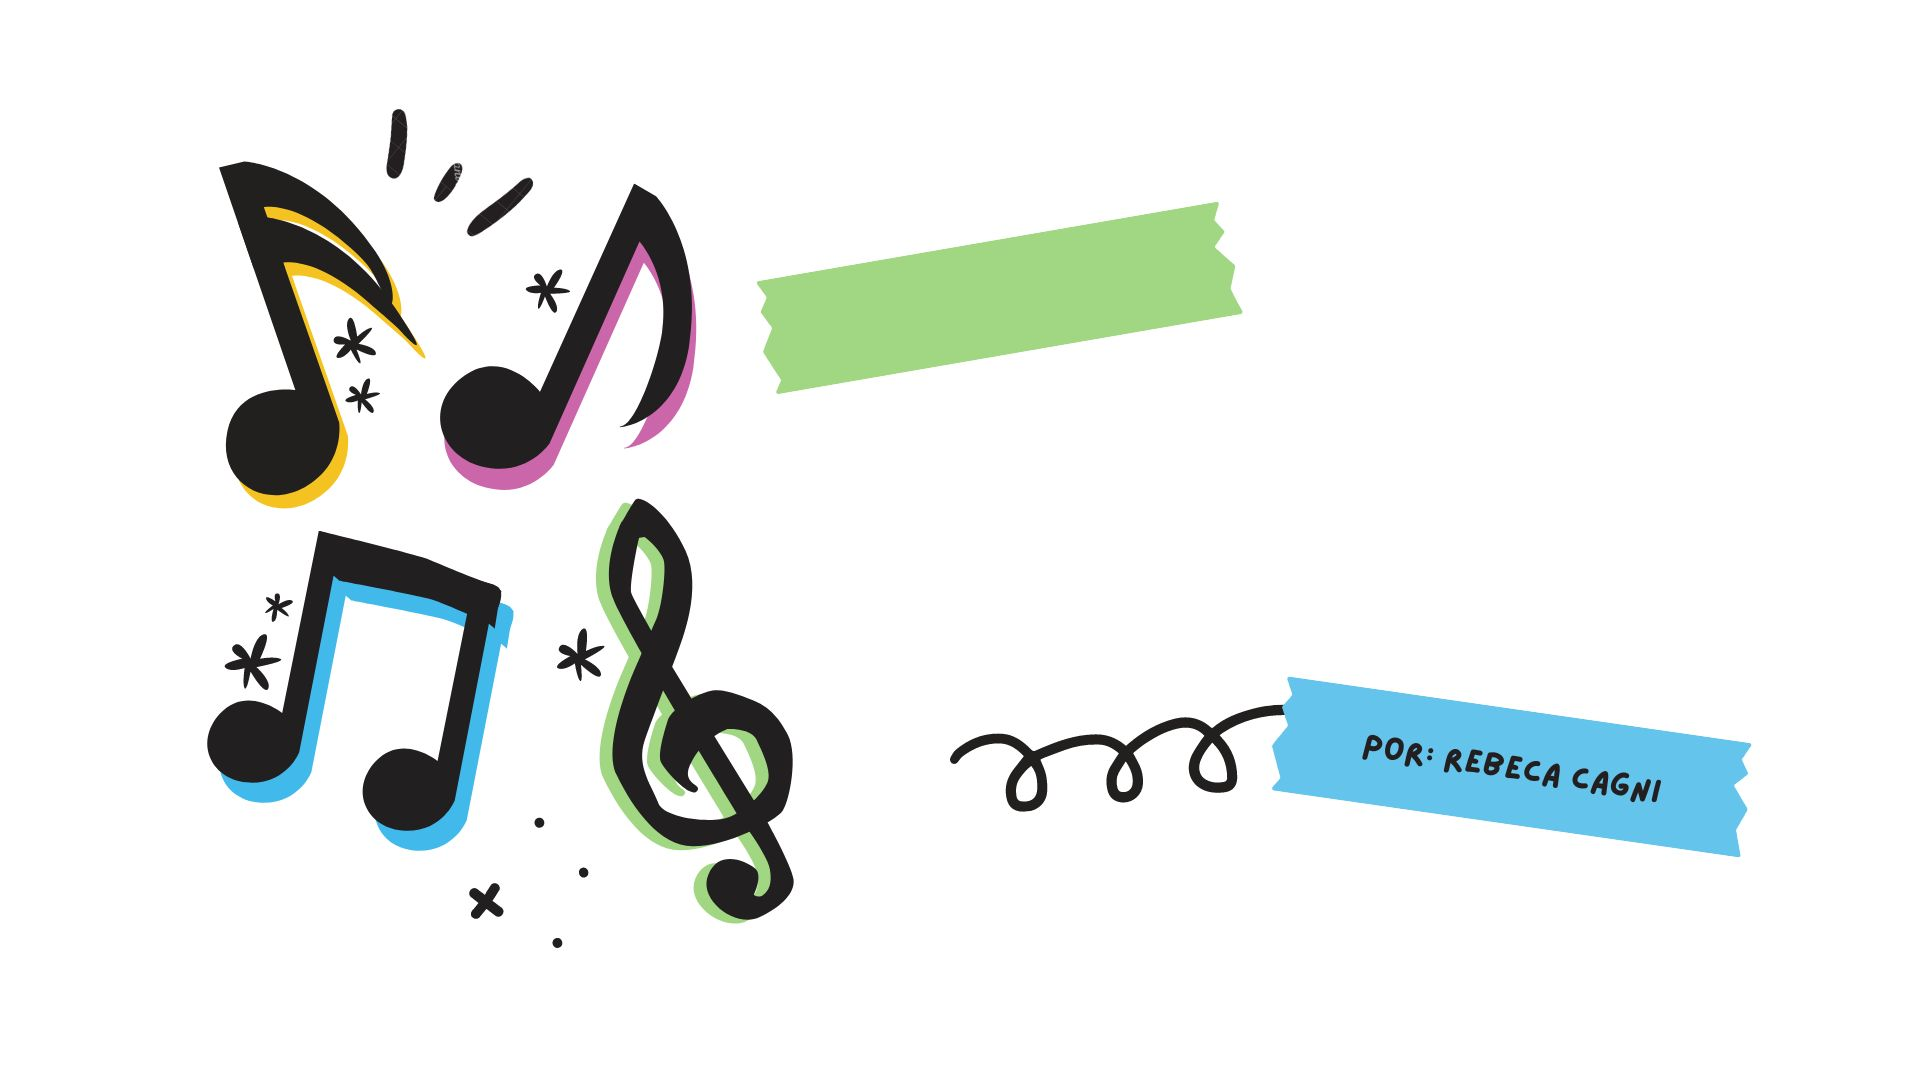
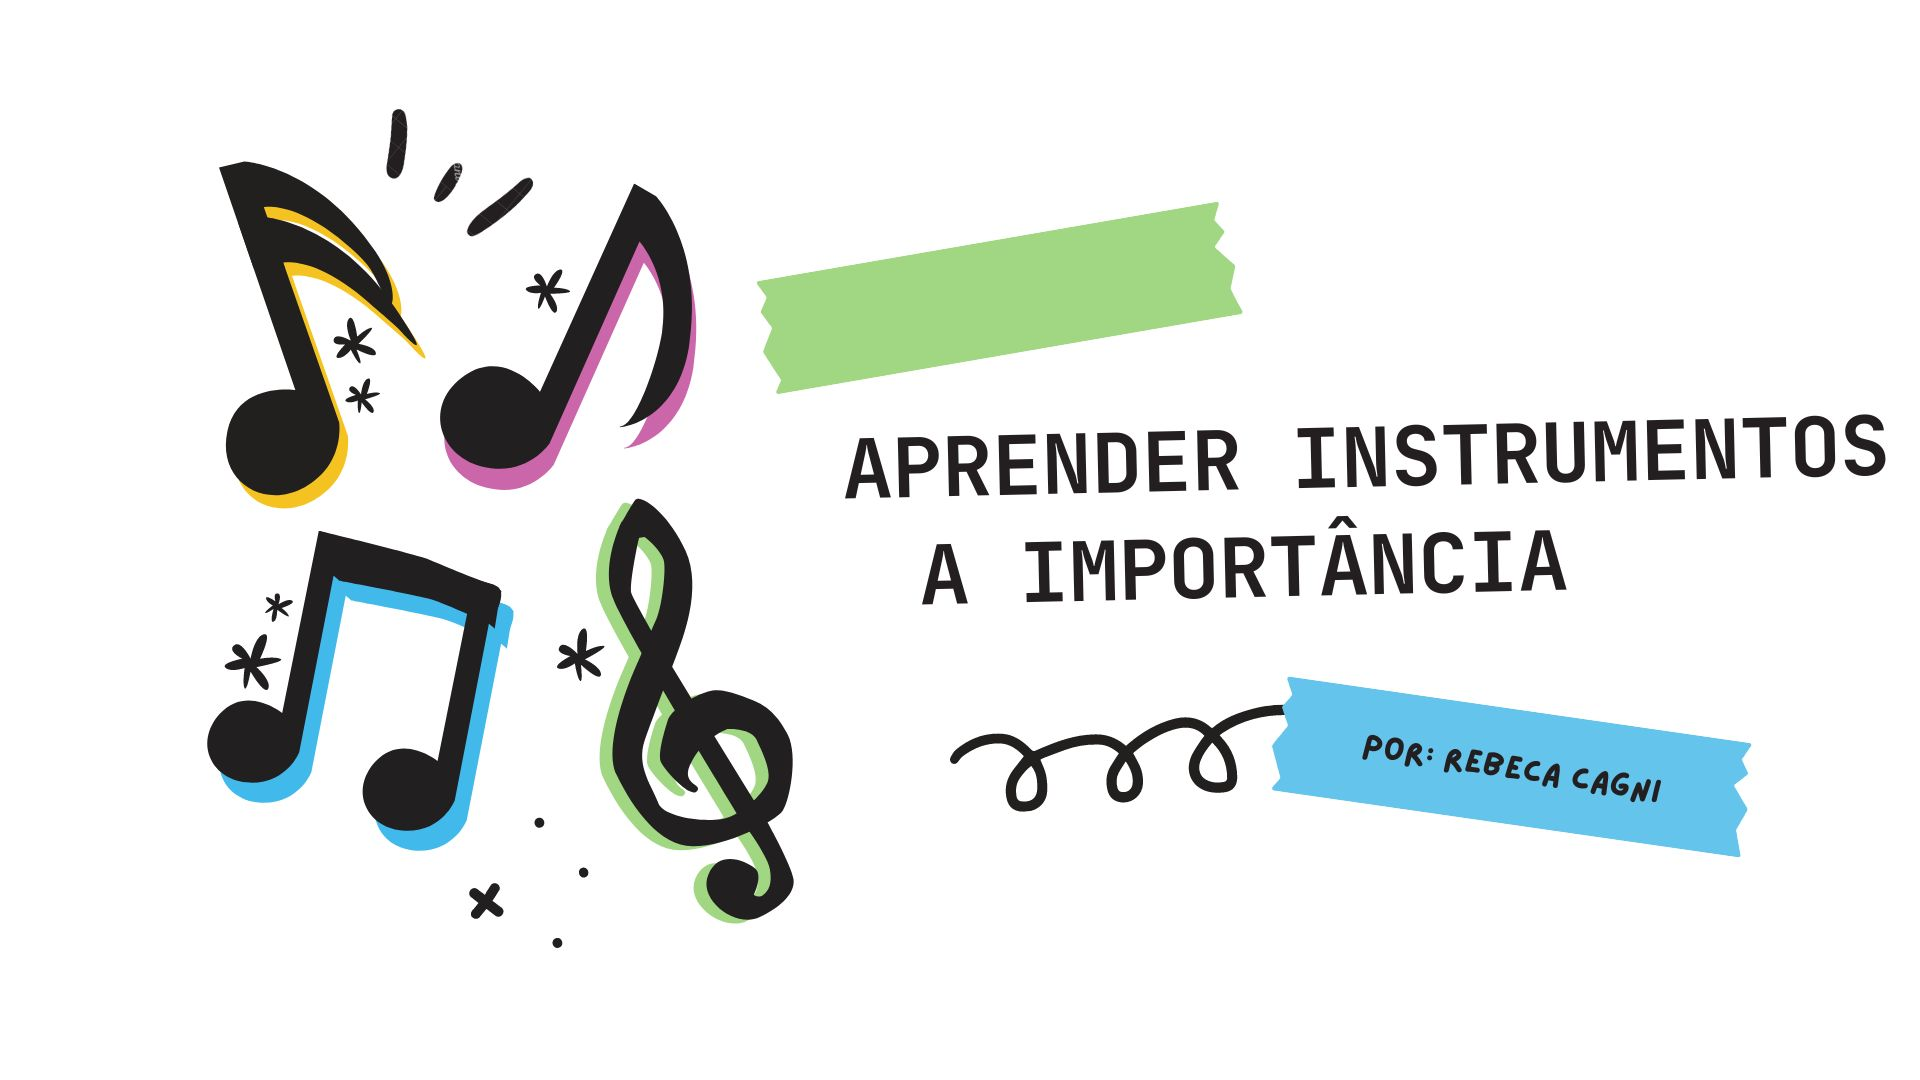
Finalizada a tela de sobre instrumneto e adicionada a parte da onu

Changed region(s): [[0.4375, 0.3667, 1.0, 0.5806], [0.4688, 0.4889, 0.5, 0.55]]

diff --git a/website/sobreinstrumentos.html b/website/sobreinstrumentos.html
@@ -54,36 +54,72 @@
 
 
   <div class="instrumento">
-      
   </div>
-</div>
+  </div>
 
 
-  <div class="como">
-    <h4 style="font-family: 'Barlow', sans-serif; font-size: larger;">Como tudo começou? </h4>
-      <div class="container">
-        <div class="boxes">    
-          <div class="box">
-            <img src="img/piano2.jpg"> 
-            <p>Me chamo Rebeca e atualmente tenho 17 anos. E como o meu interesse pela aprendizagem de um instrumento iniciou?
-              Bom, eu frequento a igreja desde pequena e lá há a organista e os músicos que tocam instrumentos de corda, metal... 
-              Desde pequena então, sempre reparei nos que tocavam principalmente na organista, mas eu não tinha vontade de aprender orgão,
-              porém em um determinado momento da minha vida ouvi uma pessoa com quem eu convivia tocando piano e me apaixonei por esse instrumento. Dessa forma, pedi
-              para a minha mãe que me colocasse para fazer aulas de piano, iniciei com 6 anos e fiquei até os 8 anos, minha mãe percebeu que 
-              eu não me desenvolvia por conta da professora então parei as aulas. Era muito estranho não aprender nada novo, porém nas escolas
-              em que eu estudei, sempre tivémos algum instrumento para aprender, mas não era o suficiente para mim.....
-            </p>
-          </div>
-        </div>
+  <div class="INSTRUMENTO-PESQUISA">
+    <h4 style="font-family: 'Barlow', sans-serif; font-size: xx-large; color: rgb(68, 29, 104);">Como aprender
+      instrumentos pode mudar a vida de alguém? </h4>
+    <div class="container-instrumento">
+      <div class="box-instrumento">
+        <img class="img-instrumento" src="img/Friends singing Christmas Carol-cuate.svg">
+      </div>
+      <div class="texto">
+        <p>A música é uma linguagem universal que transcende fronteiras e conecta pessoas de diferentes
+          origens. Mas além de proporcionar prazer auditivo e emocional, aprender a tocar um
+          instrumento pode ter um impacto profundo na vida de alguém,
+          influenciando não apenas suas habilidades musicais, mas também seu raciocínio lógico e cognitivo. <br><br>
+
+          <b> • Desenvolvimento Cognitivo e Habilidades Mentais</b><br>
+          Estudos científicos têm demonstrado consistentemente os benefícios cognitivos de aprender a tocar
+          um instrumento.
+          Quando nos dedicamos a dominar um novo instrumento musical, e
+          stamos desafiando nosso cérebro de maneiras únicas.
+          Isso ocorre porque a prática musical envolve uma combinação complexa de habilidades motoras,
+          auditivas e cognitivas. <br>
+
+          <b> • Melhoria do raciocínio lógico: </b><br>
+          Aprender música envolve compreender estruturas complexas,
+          reconhecer padrões e fazer conexões entre notas, ritmos e harmonias.
+          Essa prática constante fortalece as habilidades de resolução de problemas e o raciocínio lógico. <br>
+
+          <b> • Aprimoramento da memória:</b><br> Memorizar partituras, acordes e progressões melódicas exige exercitar
+          a memória de curto e longo prazo.
+          Essa prática regular pode resultar em melhorias significativas na capacidade de retenção e
+          recuperação de informações. <br>
+
+          <b> • Estímulo da criatividade:</b><br> Tocar um instrumento envolve expressar emoções e
+          ideias de forma criativa. Isso estimula a imaginação e a capacidade de pensar fora da caixa,
+          habilidades essenciais não apenas na música, mas em todas as áreas da vida.
+        </p>
+
+        <p>
+          <center><b style="font-size: larger;">Um Investimento Para Toda a Vida</b><br></center>
+          Aprender a tocar um instrumento musical é mais do que adquirir uma habilidade; 
+          é um investimento para toda a vida. 
+          Os benefícios cognitivos, emocionais e sociais que acompanham a prática musical são inestimáveis e 
+          podem enriquecer profundamente a experiência humana. <br>
+           Portanto, se você já considerou aprender um instrumento, agora
+          é o momento perfeito para começar essa jornada transformadora. <br><br>
+
+          Quer explorar o poder da música e começar sua própria jornada musical? 
+          Entre em contato conosco para descobrir
+          como podemos ajudá-lo a alcançar seus objetivos musicais e desbloquear todo o potencial que a música tem a
+          oferecer.
+
+
+        </p>
       </div>
     </div>
-  
-    <div class="footer">
-      <div class="container">
-        <h4>By: Rebeca Roque Cagni &copy; 2024</h4>
-        <span class="version">v1.0.0</span>
-      </div>
+  </div>
+
+  <div class="footer">
+    <div class="container">
+      <h4>By: Rebeca Roque Cagni &copy; 2024</h4>
+      <span class="version">v1.0.0</span>
     </div>
+  </div>
 </body>
 
 </html>

diff --git a/website/index.html b/website/index.html
@@ -84,6 +84,26 @@
       </div>
     </div>
   
+    <div class="como">
+      <center><h4 style="font-family: 'Barlow', sans-serif; font-size: larger; padding-left: 40px;">Como tudo começou? </h4></center>
+        <div class="container">
+          <div class="boxes">    
+            <div class="box">
+              <img src="img/piano2.jpg"> 
+              <p>Me chamo Rebeca e atualmente tenho 17 anos. E como o meu interesse pela aprendizagem de um instrumento iniciou?
+                Bom, eu frequento a igreja desde pequena e lá há a organista e os músicos que tocam instrumentos de corda, metal... 
+                Desde pequena então, sempre reparei nos que tocavam principalmente na organista, mas eu não tinha vontade de aprender orgão,
+                porém em um determinado momento da minha vida ouvi uma pessoa com quem eu convivia tocando piano e me apaixonei por esse instrumento. Dessa forma, pedi
+                para a minha mãe que me colocasse para fazer aulas de piano, iniciei com 6 anos e fiquei até os 8 anos, minha mãe percebeu que 
+                eu não me desenvolvia por conta da professora então parei as aulas. Era muito estranho não aprender nada novo, porém nas escolas
+                em que eu estudei, sempre tivémos algum instrumento para aprender, mas não era o suficiente para mim.....
+              </p>
+            </div>
+          </div>
+        </div>
+      </div>
+  
+      
     <div class="footer">
       <div class="container">
         <h4>By: Rebeca Roque Cagni &copy; 2024</h4>

diff --git a/website/css/style.css b/website/css/style.css
@@ -129,10 +129,11 @@ body {
   justify-content:space-around ;
 }
 
+
 /* FOOTER */
 
 .footer {
-  background: linear-gradient(to bottom right, #e2d5ff, #b29bd8); /* Gradiente linear */
+  background: linear-gradient(to bottom right, #beb5d1, #8a66c4); /* Gradiente linear */
   height: 150px;
   color: #fff;
   display: flex;
@@ -153,20 +154,46 @@ body {
 /* --------------------------Sobre instrumentos --------------------------------------- */
 .instrumento {
   display: flex;
-  height: 70%;
- 
+  height: 100%;
+
   justify-content: center;
   align-items: center;
   padding: 50px; /* Espaçamento interno aumentado */
   background:  rgb(254, 255, 250); /* Gradiente linear */
   border-radius: 30px; /* Borda arredondada */
   box-shadow: 0 8px 16px rgb(255, 255, 226); /* Sombra em caixa */
-  background-image: url('../img/unnamed.jpg');
+  background-image: url('../img/Instrumentalizando.jpg');
+  background-size: cover;
  
 }
 
-.ImgInstrumento{
-  width: 7000px;
+.img-instrumento{
+  width: 500px;
+}
+
+.INSTRUMENTO-PESQUISA{
+  display: flex;
+  flex-direction: column;
+  justify-content: center;
+  align-items: center;
+  margin: 10px;
+}
+
+.box-instrumento {
+  display: flex;
+  flex-direction: column;
+ align-items: center;
+}
+
+.container-instrumento {
+  display: flex;
+  flex-direction: row;
+  justify-content: flex-start;
+}
+
+.texto {
+  font-family: 'Gill Sans', 'Gill Sans MT', Calibri, 'Trebuchet MS', sans-serif;
+  font-size: large;
 }
 
 /* ----------------------------- LOGIN -------------------------- */
